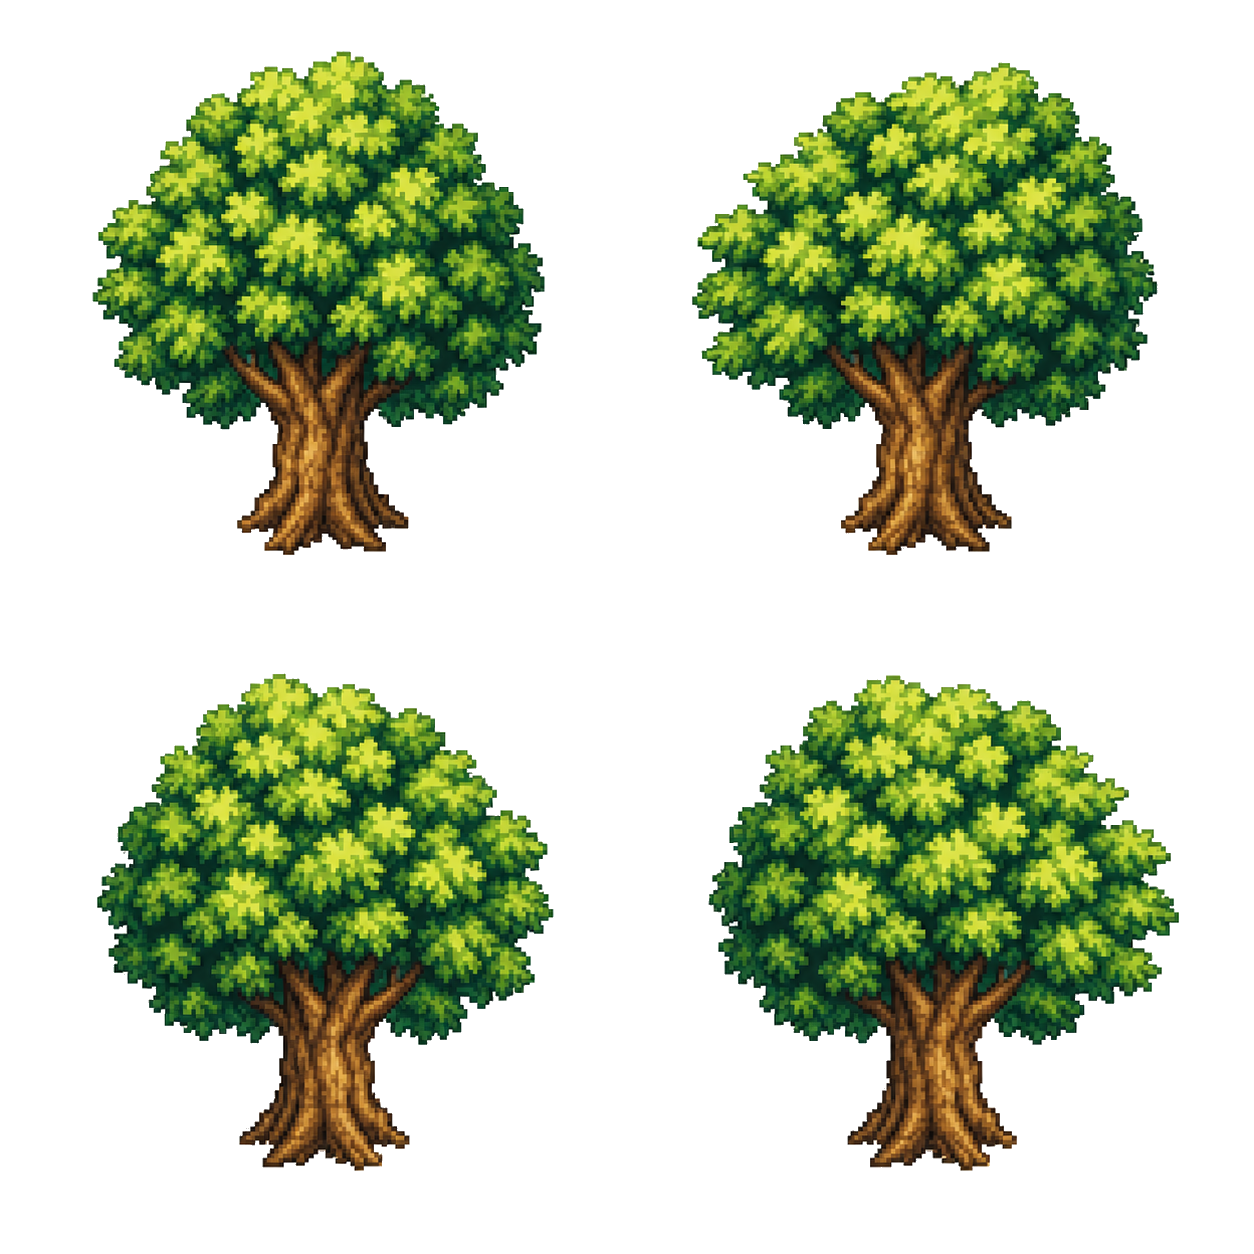
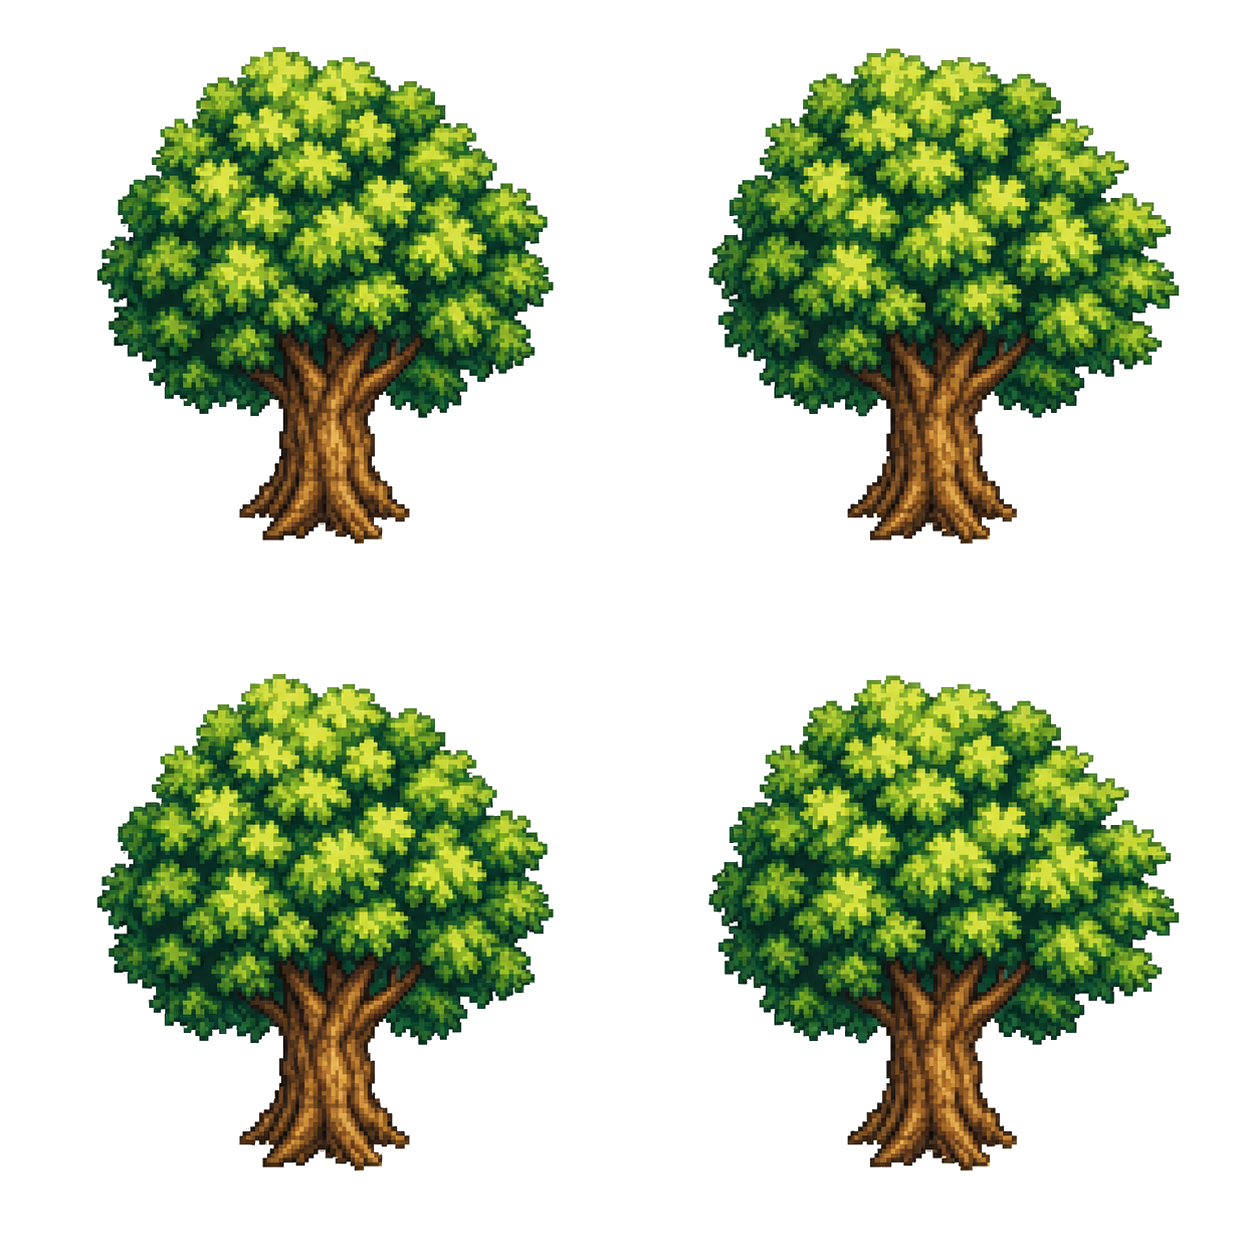
feat: 場景切換系統 — office ↔ outdoor 雙向出入口
- SceneData 加 exits(zone/to/spawn),wall 改 optional(室外無牆補頂部邊界)
- main.ts switchScene:Player 實例跨場景保留換裝狀態,editor destroy 重建
- outdoor.json:草地+房屋+石徑+樹+花叢,門前 zone 回 office
- stone-path 補 anchor/flat/scale 當地面貼片
- preview 頁格子自適應全塞一屏

Changed region(s): [[0.5287, 0.0311, 0.933, 0.4665], [0.0622, 0.0311, 0.4354, 0.4665]]

diff --git a/src/main.ts b/src/main.ts
@@ -1,6 +1,6 @@
 import { Application, Container, Text } from 'pixi.js';
 import { loadManifest, loadFrames, sheetExists } from './assets';
-import { buildScene, loadScene } from './scene';
+import { aabbOverlap, buildScene, loadScene } from './scene';
 import { Player } from './player';
 import { SceneEditor } from './editor';
 import { buildUi, type SlotGroup } from './ui';
@@ -28,8 +28,14 @@ async function boot() {
 async function previewMode(app: Application, manifest: Awaited<ReturnType<typeof loadManifest>>) {
   const grid = new Container();
   app.stage.addChild(grid);
-  const cell = 200;
-  const cols = Math.max(1, Math.floor(app.screen.width / cell));
+  // 依素材數自動縮格子,全部塞進一屏(canvas 不捲動)
+  const count = Object.keys(manifest.assets).length;
+  const cols = Math.max(1, Math.ceil(Math.sqrt((count * app.screen.width) / app.screen.height)));
+  const rows = Math.ceil(count / cols);
+  const cell = Math.min(
+    Math.floor(app.screen.width / cols),
+    Math.floor(app.screen.height / rows),
+  );
   let i = 0;
   for (const [name, def] of Object.entries(manifest.assets)) {
     const col = i % cols;
@@ -62,10 +68,9 @@ async function previewMode(app: Application, manifest: Awaited<ReturnType<typeof
   }
 }
 
-/** 場景模式:office 房間 + 可操作角色 */
+/** 場景模式:office 房間 + 可操作角色,踩到出入口切場景 */
 async function sceneMode(app: Application, manifest: Awaited<ReturnType<typeof loadManifest>>) {
-  const data = await loadScene('office');
-  const built = await buildScene(data, manifest);
+  let built = await buildScene(await loadScene('office'), manifest);
   app.stage.addChild(built.root);
 
   // 角色(紙娃娃層,素材未生成時場景仍可看)
@@ -130,12 +135,12 @@ async function sceneMode(app: Application, manifest: Awaited<ReturnType<typeof l
       await player.setOverlay(manifest, 'hair', defaultHair);
       hairGrp!.active = defaultHair;
     }
-    player.x = data.spawn.x;
-    player.y = data.spawn.y;
+    player.x = built.data.spawn.x;
+    player.y = built.data.spawn.y;
     built.objectLayer.addChild(player.view);
   }
   // 控制面板:髮色切換 + 場景編輯
-  const editor = new SceneEditor(app, built);
+  let editor = new SceneEditor(app, built);
 
   // 驗收/除錯用:曝露角色與編輯器
   const dbg = window as unknown as Record<string, unknown>;
@@ -151,17 +156,52 @@ async function sceneMode(app: Application, manifest: Awaited<ReturnType<typeof l
 
   // 鏡頭:整個房間置中、縮放至可視範圍
   const fit = () => {
-    const totalH = data.size.h + data.wallHeight;
-    const s = Math.min(app.screen.width / data.size.w, app.screen.height / totalH) * 0.92;
+    const d = built.data;
+    const totalH = d.size.h + d.wallHeight;
+    const s = Math.min(app.screen.width / d.size.w, app.screen.height / totalH) * 0.92;
     built.root.scale.set(s);
-    built.root.x = (app.screen.width - data.size.w * s) / 2;
-    built.root.y = (app.screen.height - totalH * s) / 2 + data.wallHeight * s;
+    built.root.x = (app.screen.width - d.size.w * s) / 2;
+    built.root.y = (app.screen.height - totalH * s) / 2 + d.wallHeight * s;
   };
   fit();
   window.addEventListener('resize', fit);
 
+  // 場景切換:換裝狀態跟著 Player 實例保留
+  let switching = false;
+  const switchScene = async (to: string, spawn: { x: number; y: number }) => {
+    switching = true;
+    try {
+      const next = await buildScene(await loadScene(to), manifest);
+      if (player) built.objectLayer.removeChild(player.view);
+      editor.destroy();
+      app.stage.removeChild(built.root);
+      built.root.destroy({ children: true });
+      built = next;
+      app.stage.addChild(built.root);
+      if (player) {
+        player.x = spawn.x;
+        player.y = spawn.y;
+        built.objectLayer.addChild(player.view);
+      }
+      editor = new SceneEditor(app, built);
+      dbg.__built = built;
+      dbg.__editor = editor;
+      fit();
+    } finally {
+      switching = false;
+    }
+  };
+
   app.ticker.add((t) => {
     player?.update(t.deltaMS / 1000, built.colliders);
+    if (player && !switching) {
+      for (const ex of built.data.exits ?? []) {
+        if (aabbOverlap(player.aabb, ex.zone)) {
+          void switchScene(ex.to, ex.spawn);
+          break;
+        }
+      }
+    }
   });
 }
 

diff --git a/src/editor.ts b/src/editor.ts
@@ -13,13 +13,27 @@ export class SceneEditor {
   private offX = 0;
   private offY = 0;
 
+  private detach: () => void;
+
   constructor(app: Application, private built: BuiltScene) {
     for (const rec of built.placed) this.bindSprite(rec);
     app.stage.eventMode = 'static';
     app.stage.hitArea = app.screen;
-    app.stage.on('pointermove', (e) => this.onMove(e));
-    app.stage.on('pointerup', () => (this.dragging = false));
-    app.stage.on('pointerupoutside', () => (this.dragging = false));
+    const onMove = (e: FederatedPointerEvent) => this.onMove(e);
+    const onUp = () => (this.dragging = false);
+    app.stage.on('pointermove', onMove);
+    app.stage.on('pointerup', onUp);
+    app.stage.on('pointerupoutside', onUp);
+    this.detach = () => {
+      app.stage.off('pointermove', onMove);
+      app.stage.off('pointerup', onUp);
+      app.stage.off('pointerupoutside', onUp);
+    };
+  }
+
+  /** 切場景時呼叫:解除 stage 監聽,避免舊 editor 殘留 */
+  destroy() {
+    this.detach();
   }
 
   setEnabled(on: boolean) {

diff --git a/src/types.ts b/src/types.ts
@@ -31,18 +31,28 @@ export interface SceneObject {
   z?: number;
 }
 
+/** 場景出入口:角色踩進 zone 就切到 to 場景、落在 spawn */
+export interface SceneExit {
+  /** 觸發區(場景座標,中心式 AABB) */
+  zone: Aabb;
+  to: string;
+  spawn: { x: number; y: number };
+}
+
 export interface SceneData {
   name: string;
   /** 房間內部(地板區)像素尺寸 */
   size: { w: number; h: number };
-  /** 上牆顯示高度 */
+  /** 上牆顯示高度(室外場景可為 0,只當頂部留白) */
   wallHeight: number;
   /** 地板單格顯示尺寸 */
   floorTile: number;
   floor: string;
-  wall: string;
+  /** 上牆素材;室外場景不填 */
+  wall?: string;
   objects: SceneObject[];
   spawn: { x: number; y: number };
+  exits?: SceneExit[];
 }
 
 export interface Aabb {

diff --git a/src/scene.ts b/src/scene.ts
@@ -60,9 +60,9 @@ export async function buildScene(data: SceneData, manifest: Manifest): Promise<B
     }
   }
 
-  // 上牆:沿房間頂部橫向鋪
-  const wallDef = manifest.assets[data.wall];
-  if (wallDef && (await sheetExists(wallDef))) {
+  // 上牆:沿房間頂部橫向鋪(室外場景沒牆 → 只放頂部邊界)
+  const wallDef = data.wall ? manifest.assets[data.wall] : undefined;
+  if (data.wall && wallDef && (await sheetExists(wallDef))) {
     const frames = await loadFrames(data.wall, wallDef);
     const h = data.wallHeight;
     const ratio = frames[0].width / frames[0].height;
@@ -77,6 +77,9 @@ export async function buildScene(data: SceneData, manifest: Manifest): Promise<B
     }
     // 牆是實心的:整條上牆一個 collider
     colliders.push({ x: data.size.w / 2, y: -h / 2, w: data.size.w, h });
+  } else {
+    // 沒牆也要擋住頂部,角色不能走出地圖
+    colliders.push({ x: data.size.w / 2, y: -20, w: data.size.w, h: 40 });
   }
 
   // 房間四周邊界(角色不能走出地板)